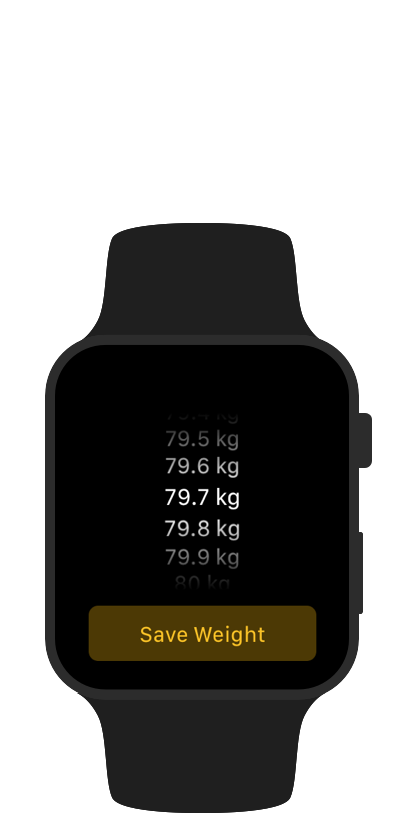
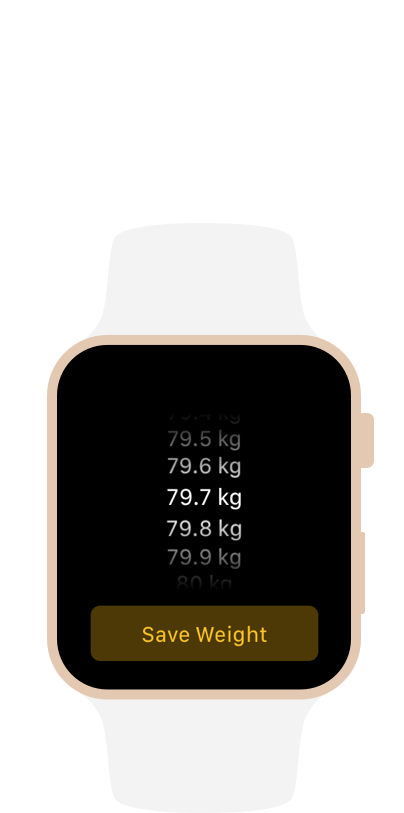
Updated colours of top level pages

diff --git a/_sass/_apps.scss b/_sass/_apps.scss
@@ -1,5 +1,5 @@
-$background: #0D0D0D;
-$primary: #7B7B7B;
+$background: #0A0220;
+$primary: #766d8e;
 $highlight: #00CCF8;
 
 .apps {
@@ -116,8 +116,7 @@ $highlight: #00CCF8;
 	}
 	
 	.phone {
-		background: #1F1F1F;
-		border: 1px solid rgba(#7B7B7B, 0.13);
+		background: #f3f3f3;
 		margin: 0px auto !important;
 		max-width: 100%;
 		display: none !important;
@@ -128,7 +127,6 @@ $highlight: #00CCF8;
 		
 		.speaker, .home {
 			background: $background;
-			border: 1px solid rgba(#7B7B7B, 0.4);
 		}
 		
 		.home {

diff --git a/apps/index.html b/apps/index.html
@@ -18,6 +18,7 @@ description: "Interactive Designer from Sydney"
 		<a href="https://itunes.apple.com/au/app/simple-scales-easily-track/id1144473563?mt=8" target="_blank" class="appLink">
 			<div class="phone">
 				<div class="speaker"></div>
+				<div class="screenContainer"></div>
 				<img class="screen" src="../images/apps/screenshot_simplescale.png" alt="A screenshot of Simple Scales">
 				<div class="home"></div>
 			</div>

diff --git a/_sass/_portfolio.scss b/_sass/_portfolio.scss
@@ -1,6 +1,6 @@
-$background: #0D0D0D;
-$primary: #7B7B7B;
-$highlight: #DADC4A;
+$background: #01151F;
+$primary: #4c6571;
+$highlight: #ffbf26;
 
 .portfolio {
 	background: $background;

diff --git a/_sass/_downloads.scss b/_sass/_downloads.scss
@@ -1,5 +1,5 @@
-$background: #0D0D0D;
-$primary: #7B7B7B;
+$background: #17052A;
+$primary: #27617d;
 $highlight: #4ADC90;
 
 .downloads {
